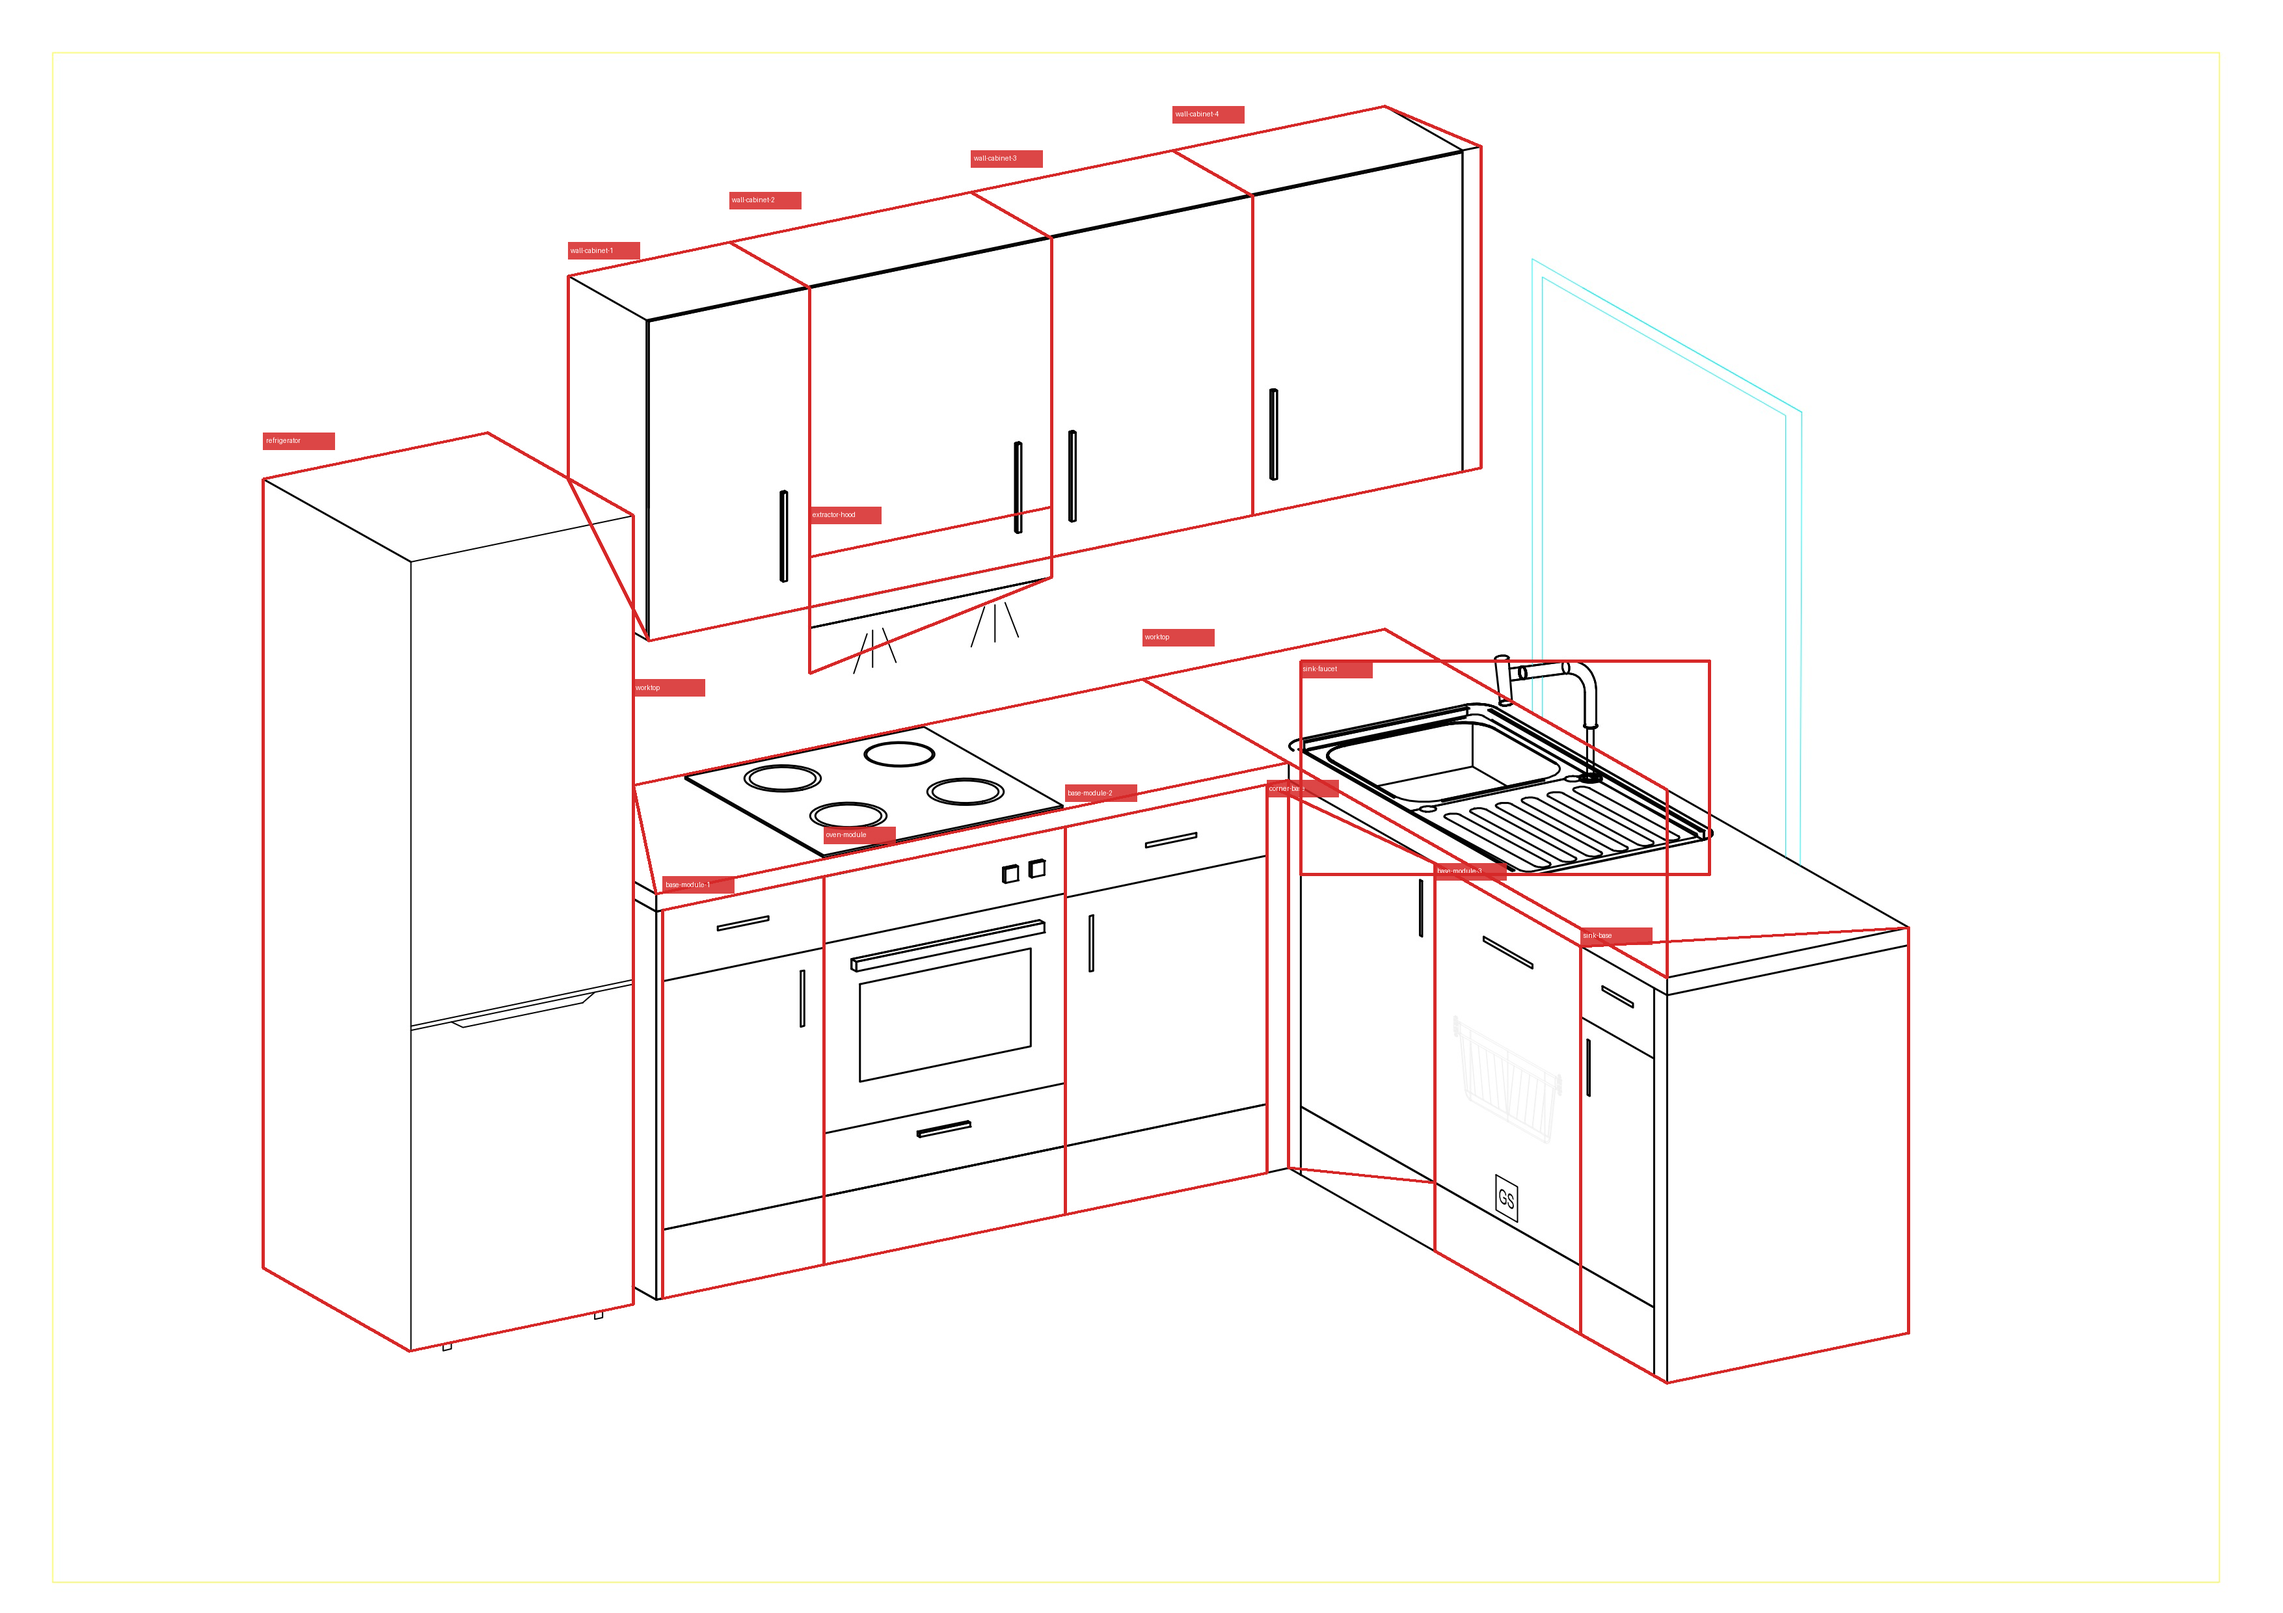
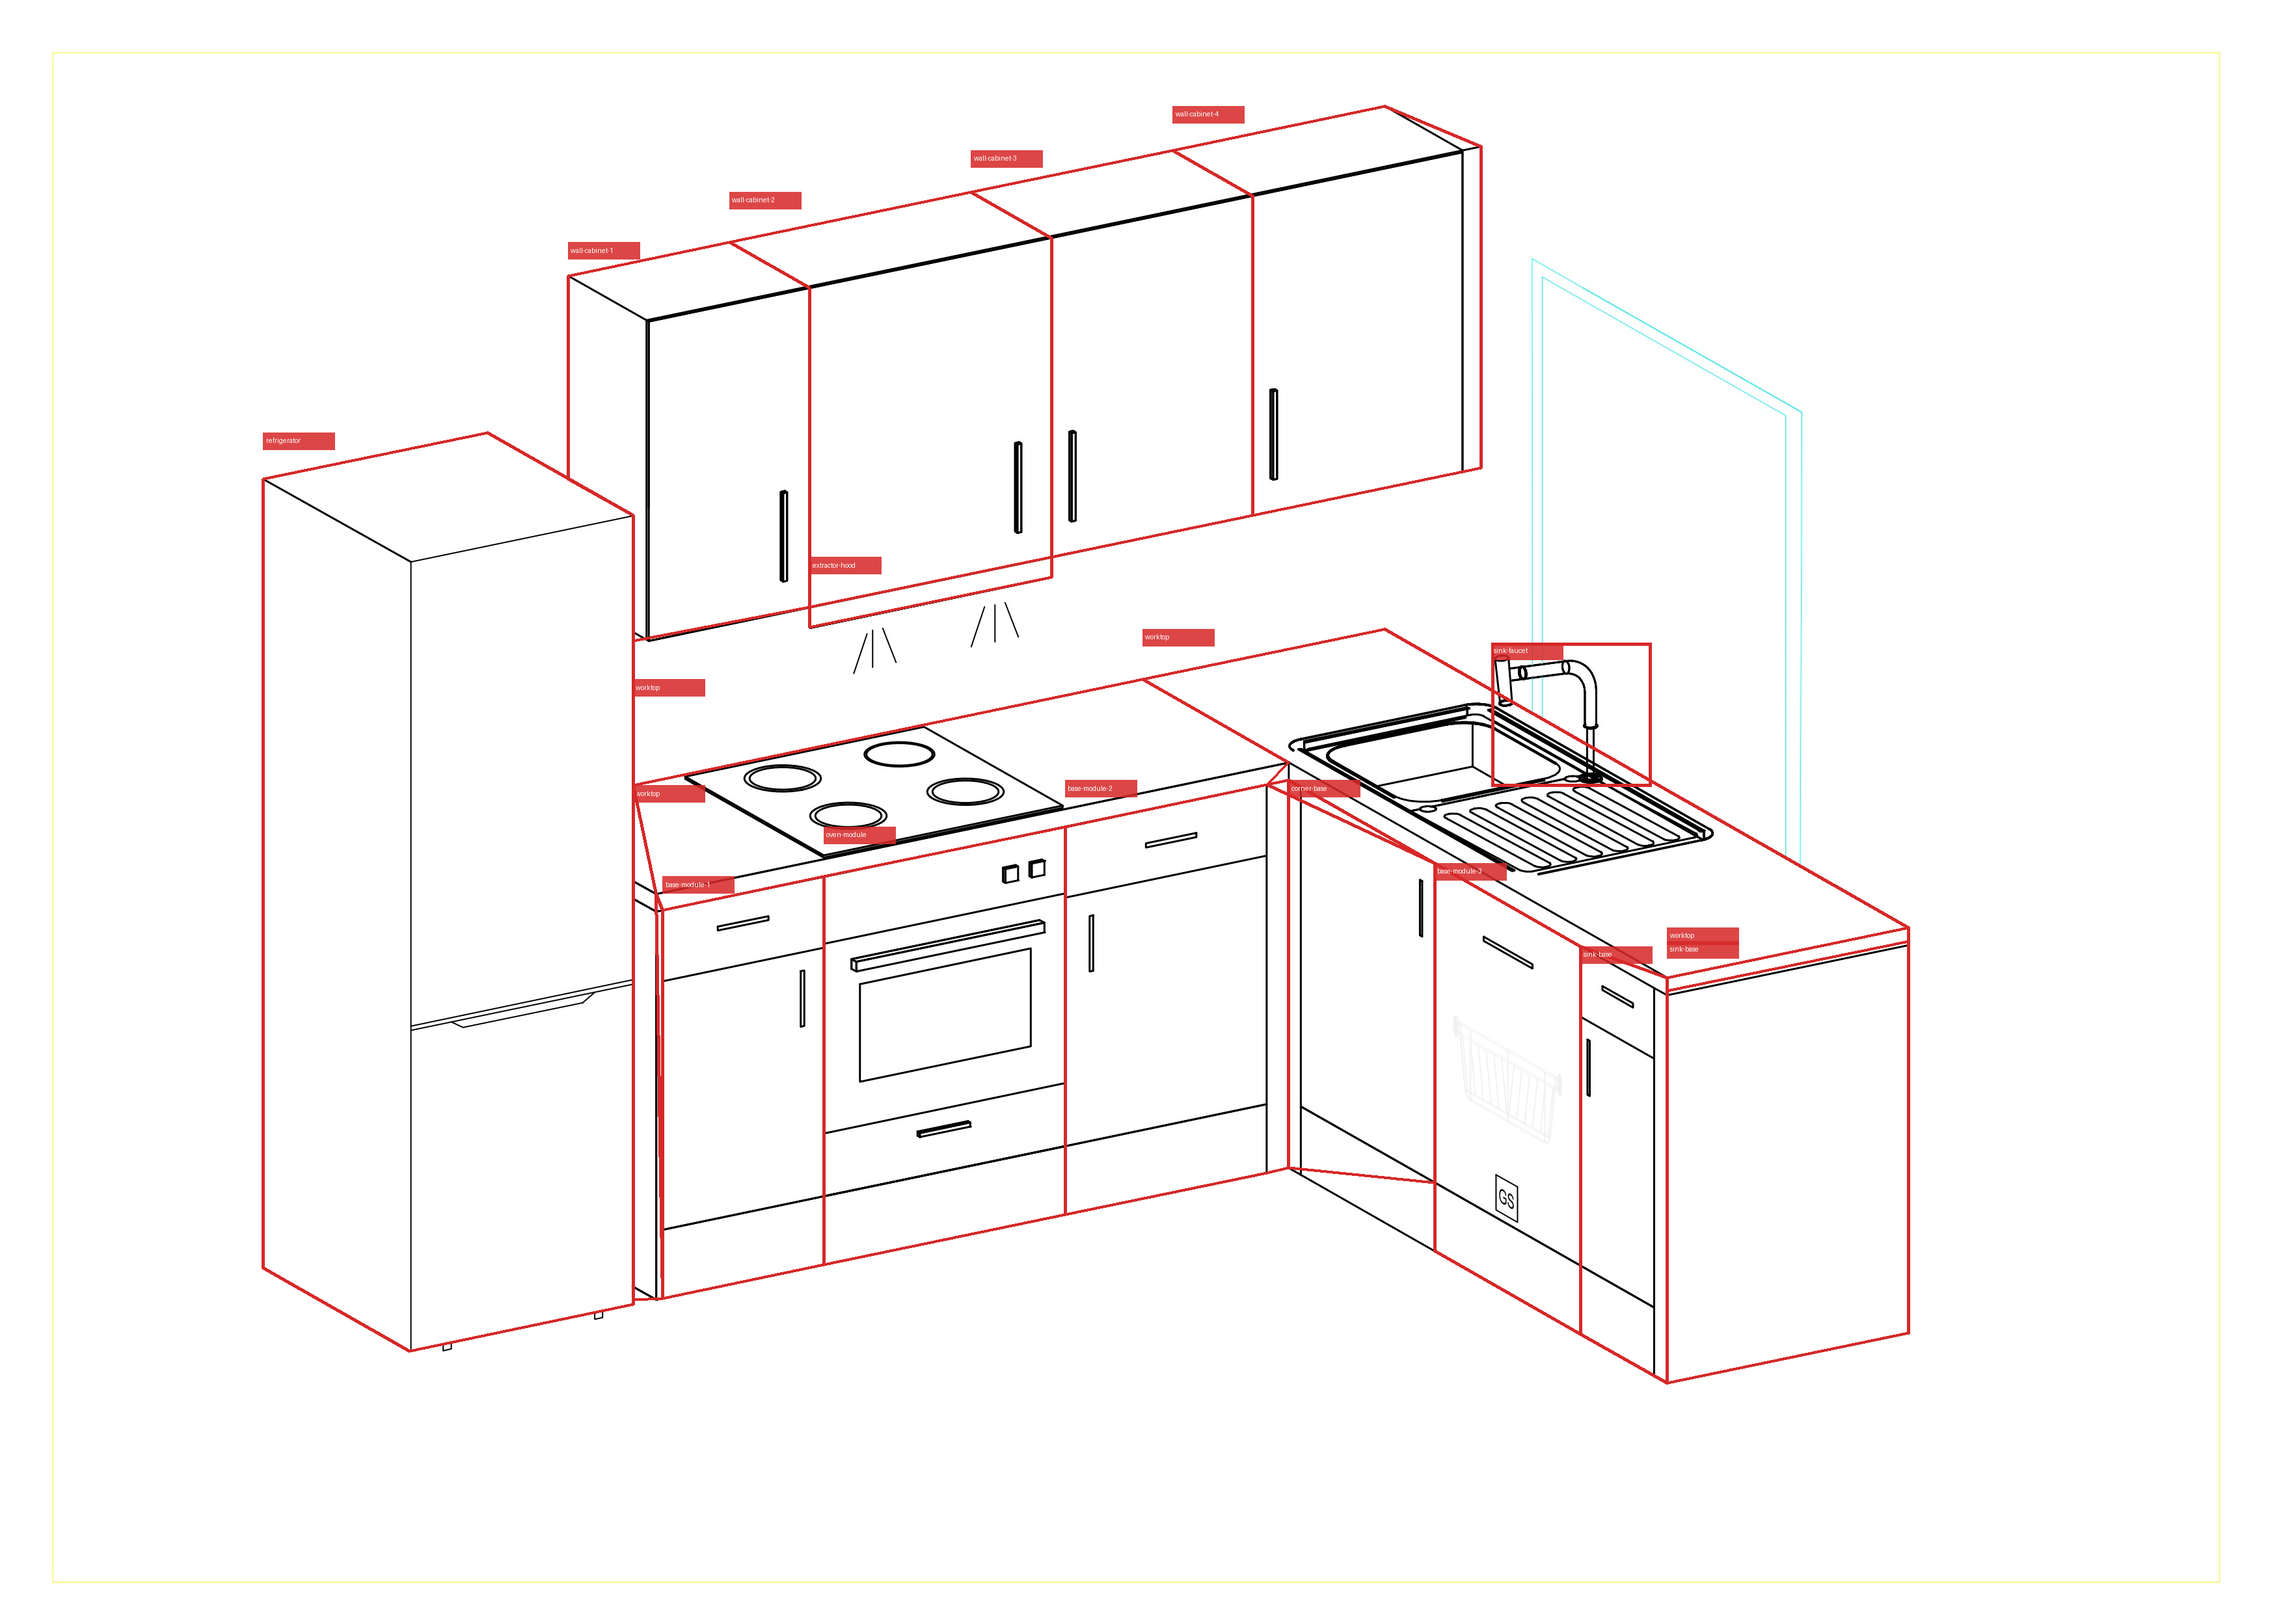
l shaped kitchens

diff --git a/frontend/components/kitchen-svg-stage.jsx b/frontend/components/kitchen-svg-stage.jsx
@@ -91,68 +91,86 @@ const IMAGE_HOTSPOTS_BY_SLUG = {
     { componentKey: "refrigerator", left: 71.37, top: 29.54, width: 14.55, height: 66.59 },
   ],
   "ab-105809": [
-    {
-      componentKey: "refrigerator",
-      points: [[11.54, 29.71], [21.35, 26.82], [27.74, 31.97], [27.74, 80.87], [17.95, 83.76], [11.54, 78.61]],
-    },
-    {
-      componentKey: "wall-cabinet-1",
-      points: [[24.89, 17.11], [31.95, 15.03], [35.48, 17.85], [35.48, 37.66], [28.42, 39.73], [24.89, 29.7]],
-    },
-    {
-      componentKey: "wall-cabinet-2",
-      points: [[31.95, 15.03], [42.54, 11.9], [46.06, 14.76], [46.06, 34.55], [35.48, 37.66], [35.48, 17.85]],
-    },
-    {
-      componentKey: "extractor-hood",
-      points: [[35.48, 34.55], [46.06, 31.43], [46.06, 35.8], [35.48, 41.75]],
-    },
-    {
-      componentKey: "wall-cabinet-3",
-      points: [[42.54, 11.9], [51.37, 9.33], [54.88, 12.15], [54.88, 31.95], [46.06, 34.55], [46.06, 14.76]],
-    },
-    {
-      componentKey: "wall-cabinet-4",
-      points: [[51.37, 9.33], [60.65, 6.59], [64.89, 9.08], [64.89, 29.01], [54.88, 31.95], [54.88, 12.15]],
-    },
-    {
-      componentKey: "worktop",
-      points: [[27.74, 48.69], [50.05, 42.12], [56.45, 47.28], [28.74, 55.43]],
-    },
-    {
-      componentKey: "worktop",
-      points: [[50.05, 42.12], [60.65, 39.01], [73.03, 48.99], [73.03, 60.61], [56.45, 47.28]],
-    },
-    {
-      componentKey: "base-module-1",
-      points: [[29.03, 56.44], [36.08, 54.35], [36.08, 78.42], [29.03, 80.5]],
-    },
-    {
-      componentKey: "oven-module",
-      points: [[36.08, 54.35], [46.66, 51.26], [46.66, 75.29], [36.08, 78.42]],
-    },
-    {
-      componentKey: "base-module-2",
-      points: [[46.66, 51.26], [55.49, 48.66], [55.49, 72.71], [46.66, 75.29]],
-    },
-    {
-      componentKey: "corner-base",
-      points: [[55.49, 48.66], [62.85, 53.51], [62.85, 73.31], [56.45, 72.4], [56.45, 48.37]],
-    },
-    {
-      componentKey: "base-module-3",
-      points: [[62.85, 53.51], [69.25, 58.67], [69.25, 82.72], [62.85, 77.58]],
-    },
-    {
-      componentKey: "sink-base",
-      points: [[69.25, 58.67], [83.61, 57.51], [83.61, 82.66], [73.03, 85.76], [69.25, 82.72]],
-    },
-    {
-      componentKey: "sink-faucet",
-      points: [[56.98, 40.97], [74.88, 40.97], [74.88, 54.22], [56.98, 54.22]],
-      preserveManualSize: true,
-    },
-  ],
+  {
+    componentKey: "refrigerator",
+    points: [[11.54, 29.71], [21.35, 26.82], [27.74, 31.97], [27.74, 80.87], [17.95, 83.76], [11.54, 78.61]],
+  },
+  {
+    componentKey: "worktop",
+    points: [[27.74, 48.69], [28.74, 55.43], [29.03, 80.5], [27.74, 80.58]],
+    preserveManualSize: true,
+  },
+  {
+    componentKey: "wall-cabinet-1",
+    points: [[24.89, 17.11], [31.95, 15.03], [35.48, 17.85], [35.48, 37.66], [27.74, 39.73], [27.74, 31.97], [24.89, 29.7]],
+  },
+  {
+    componentKey: "wall-cabinet-2",
+    points: [[31.95, 15.03], [42.54, 11.9], [46.06, 14.76], [46.06, 34.55], [35.48, 37.66], [35.48, 17.85]],
+  },
+  {
+    componentKey: "extractor-hood",
+    points: [[35.48, 37.66], [46.06, 34.55], [46.06, 35.8], [35.48, 38.9]],
+  },
+  {
+    componentKey: "wall-cabinet-3",
+    points: [[42.54, 11.9], [51.37, 9.33], [54.88, 12.15], [54.88, 31.95], [46.06, 34.55], [46.06, 14.76]],
+  },
+  {
+    componentKey: "wall-cabinet-4",
+    points: [[51.37, 9.33], [60.65, 6.59], [64.89, 9.08], [64.89, 29.01], [54.88, 31.95], [54.88, 12.15]],
+  },
+  {
+    componentKey: "worktop",
+    points: [[27.74, 48.69], [50.05, 42.12], [56.45, 47.28], [55.49, 48.66], [46.66, 51.26], [36.08, 54.35], [29.03, 56.44], [28.74, 55.43]],
+  },
+  {
+    componentKey: "worktop",
+    points: [[50.05, 42.12], [60.65, 39.01], [83.61, 57.51], [73.03, 60.61], [69.25, 58.67], [62.85, 53.51], [55.49, 48.66], [56.45, 47.28]],
+  },
+  {
+    componentKey: "base-module-1",
+    points: [[29.03, 56.44], [36.08, 54.35], [36.08, 78.42], [29.03, 80.5]],
+  },
+  {
+    componentKey: "oven-module",
+    points: [[36.08, 54.35], [46.66, 51.26], [46.66, 75.29], [36.08, 78.42]],
+  },
+  {
+    componentKey: "base-module-2",
+    points: [[46.66, 51.26], [55.49, 48.66], [56.45, 48.37], [56.45, 72.4], [55.49, 72.71], [46.66, 75.29]],
+  },
+  {
+    "componentKey": "corner-base",
+    "points": [[56.45, 48.37], [62.85, 53.51], [62.85, 77.58], [56.45, 72.4]],
+  },
+  {
+    "componentKey": "base-module-3",
+    "points": [[62.85, 53.51], [69.25, 58.67], [69.25, 82.72], [62.85, 77.58]],
+  },
+  {
+    componentKey: "sink-base",
+    points: [[69.25, 58.67], [73.03, 60.61], [73.03, 85.76], [69.25, 82.72]],
+  },
+  {
+    componentKey: "sink-faucet",
+    left: 65.32,
+    top: 39.84,
+    width: 6.01,
+    height: 8.95,
+    preserveManualSize: true,
+  },
+  {
+    componentKey: "sink-base",
+    points: [[73.03, 61.45], [83.61, 58.35], [83.61, 82.66], [73.03, 85.76]],
+    preserveManualSize: true,
+  },
+  {
+    componentKey: "worktop",
+    points: [[73.03, 60.61], [83.61, 57.51], [83.61, 58.35], [73.03, 61.45]],
+    preserveManualSize: true,
+  },
+],
   "ab-105808": [
     { componentKey: "refrigerator", left: 3.31, top: 28.08, width: 13.08, height: 59.98 },
     { componentKey: "wall-cabinet-1", left: 17.67, top: 15.89, width: 7.05, height: 24.09 },
@@ -1118,6 +1136,7 @@ export default function KitchenSvgStage({
                         top: `${hotspot.top}%`,
                         width: `${hotspot.width}%`,
                         height: `${hotspot.height}%`,
+                        zIndex: hotspot.componentKey === "sink-faucet" ? 10 : 1,
                       };
                       if (hotspot.clipPath) {
                         hotspotStyle.clipPath = hotspot.clipPath;

diff --git a/docs/build-105809-hotspots.py b/docs/build-105809-hotspots.py
@@ -12,8 +12,13 @@ boxes = [
         "points": [[11.54, 29.71], [21.35, 26.82], [27.74, 31.97], [27.74, 80.87], [17.95, 83.76], [11.54, 78.61]],
     },
     {
+        "componentKey": "worktop",
+        "points": [[27.74, 48.69], [28.74, 55.43], [29.03, 80.50], [27.74, 80.58]],
+        "preserveManualSize": True,
+    },
+    {
         "componentKey": "wall-cabinet-1",
-        "points": [[24.89, 17.11], [31.95, 15.03], [35.48, 17.85], [35.48, 37.66], [28.42, 39.73], [24.89, 29.7]],
+        "points": [[24.89, 17.11], [31.95, 15.03], [35.48, 17.85], [35.48, 37.66], [27.74, 39.73], [27.74, 31.97], [24.89, 29.70]],
     },
     {
         "componentKey": "wall-cabinet-2",
@@ -21,7 +26,7 @@ boxes = [
     },
     {
         "componentKey": "extractor-hood",
-        "points": [[35.48, 34.55], [46.06, 31.43], [46.06, 35.8], [35.48, 41.75]],
+        "points": [[35.48, 37.66], [46.06, 34.55], [46.06, 35.80], [35.48, 38.90]],
     },
     {
         "componentKey": "wall-cabinet-3",
@@ -33,11 +38,11 @@ boxes = [
     },
     {
         "componentKey": "worktop",
-        "points": [[27.74, 48.69], [50.05, 42.12], [56.45, 47.28], [28.74, 55.43]],
+        "points": [[27.74, 48.69], [50.05, 42.12], [56.45, 47.28], [55.49, 48.66], [46.66, 51.26], [36.08, 54.35], [29.03, 56.44], [28.74, 55.43]],
     },
     {
         "componentKey": "worktop",
-        "points": [[50.05, 42.12], [60.65, 39.01], [73.03, 48.99], [73.03, 60.61], [56.45, 47.28]],
+        "points": [[50.05, 42.12], [60.65, 39.01], [83.61, 57.51], [73.03, 60.61], [69.25, 58.67], [62.85, 53.51], [55.49, 48.66], [56.45, 47.28]],
     },
     {
         "componentKey": "base-module-1",
@@ -49,11 +54,11 @@ boxes = [
     },
     {
         "componentKey": "base-module-2",
-        "points": [[46.66, 51.26], [55.49, 48.66], [55.49, 72.71], [46.66, 75.29]],
+        "points": [[46.66, 51.26], [55.49, 48.66], [56.45, 48.37], [56.45, 72.40], [55.49, 72.71], [46.66, 75.29]],
     },
     {
         "componentKey": "corner-base",
-        "points": [[55.49, 48.66], [62.85, 53.51], [62.85, 73.31], [56.45, 72.4], [56.45, 48.37]],
+        "points": [[56.45, 48.37], [62.85, 53.51], [62.85, 73.31], [56.45, 72.40]],
     },
     {
         "componentKey": "base-module-3",
@@ -61,11 +66,24 @@ boxes = [
     },
     {
         "componentKey": "sink-base",
-        "points": [[69.25, 58.67], [83.61, 57.51], [83.61, 82.66], [73.03, 85.76], [69.25, 82.72]],
+        "points": [[69.25, 58.67], [73.03, 60.61], [73.03, 85.76], [69.25, 82.72]],
     },
     {
         "componentKey": "sink-faucet",
-        "points": [[56.98, 40.97], [74.88, 40.97], [74.88, 54.22], [56.98, 54.22]],
+        "left": 65.32,
+        "top": 39.84,
+        "width": 7.01,
+        "height": 8.95,
+        "preserveManualSize": True,
+    },
+    {
+        "componentKey": "sink-base",
+        "points": [[73.03, 61.45], [83.61, 58.35], [83.61, 82.66], [73.03, 85.76]],
+        "preserveManualSize": True,
+    },
+    {
+        "componentKey": "worktop",
+        "points": [[73.03, 60.61], [83.61, 57.51], [83.61, 58.35], [73.03, 61.45]],
         "preserveManualSize": True,
     },
 ]
